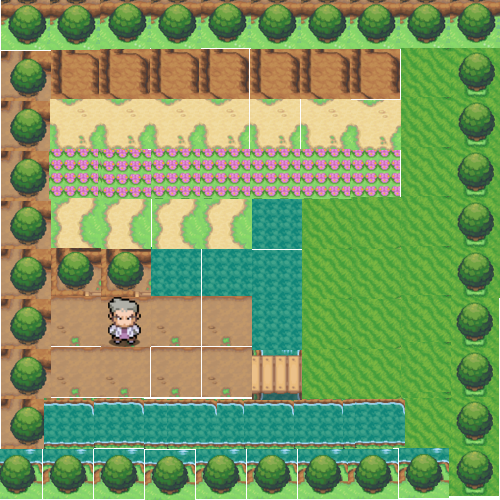
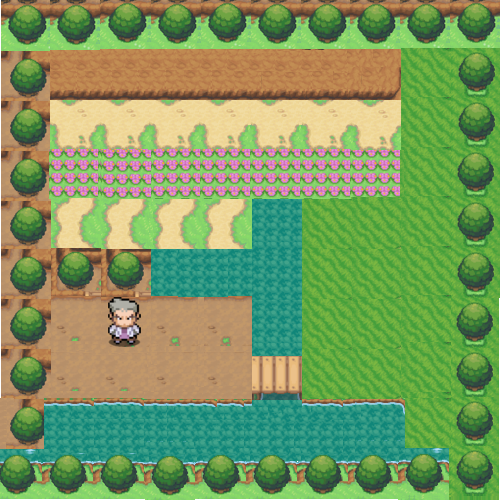
finished

diff --git a/js/world.js b/js/world.js
@@ -2,17 +2,17 @@
 var objects = {};
 
 // global x/y position of the caracter
-var xpos = 0;
-var ypos = 0;
+var xpos = 1;
+var ypos = 7;
 
 // map offsets in pixels
-var leftOffSet = 250;
-var topOffSet = 250;
+var leftOffSet = 200;
+var topOffSet = -100;
 
 var moving = false;
 
 var transitionTime = 500;
-var worldMoveDelta = 55;
+var worldMoveDelta = 50;
 
 var intervalId;
 
@@ -24,45 +24,6 @@ var doBattle = false;
 
 // array of divs in the screen that need to be moved each key press
 var visibleObjects = [];
-
-var world = {
-  "3,0":{
-    name: 'grass'
-  },
-  "4,0":{
-    name: 'grass'
-  },
-  "3,1":{
-    name: 'grass'
-  },
-  "4,1":{
-    name: 'grass'
-  },
-  "2,1":{
-    name: 'tree'
-  },
-  "2,2":{
-    name: 'tree'
-  },
-  "1,2":{
-    name: 'tree'
-  },
-  "0,2":{
-    name:'tree'
-  },
-  "1,1":{
-    name: 'character',
-    image: 'images/oak.png',
-    use: function(){
-      var chat = ['Why you must want to battle some pokemon yes?','Here have one of mine!'];
-      switchToChatControls(chat,switchToPickerControls);
-      this.use = function(){
-        var chat = ['Try walking around in the tall grass'];
-        switchToChatControls(chat,switchToWorldControls);
-      };
-    }
-  }
-};
 
 function moveInGrass(nextPos){
 

diff --git a/css/main.css b/css/main.css
@@ -6,10 +6,9 @@ body{
 #screen{
   height:550px;
   width:550px;
-  background-image: url('../images/grid.png');
-  background-size:250%;
-  background-position-x: 250px;
-  background-position-y: 250px;
+  background-image: url('../images/pokemon_grid.png');
+  background-position-x: 200px;
+  background-position-y: -100px;
   background-repeat: no-repeat;
   border: thin solid black;
   z-index:0;

diff --git a/index.html b/index.html
@@ -18,6 +18,7 @@
     <script src="js/picker.js"></script>
     <script src="js/party.js"></script>
     <script src="js/battle.js"></script>
+    <script src="js/map.js"></script>
     <script src="js/main.js"></script>
   </head>
 
